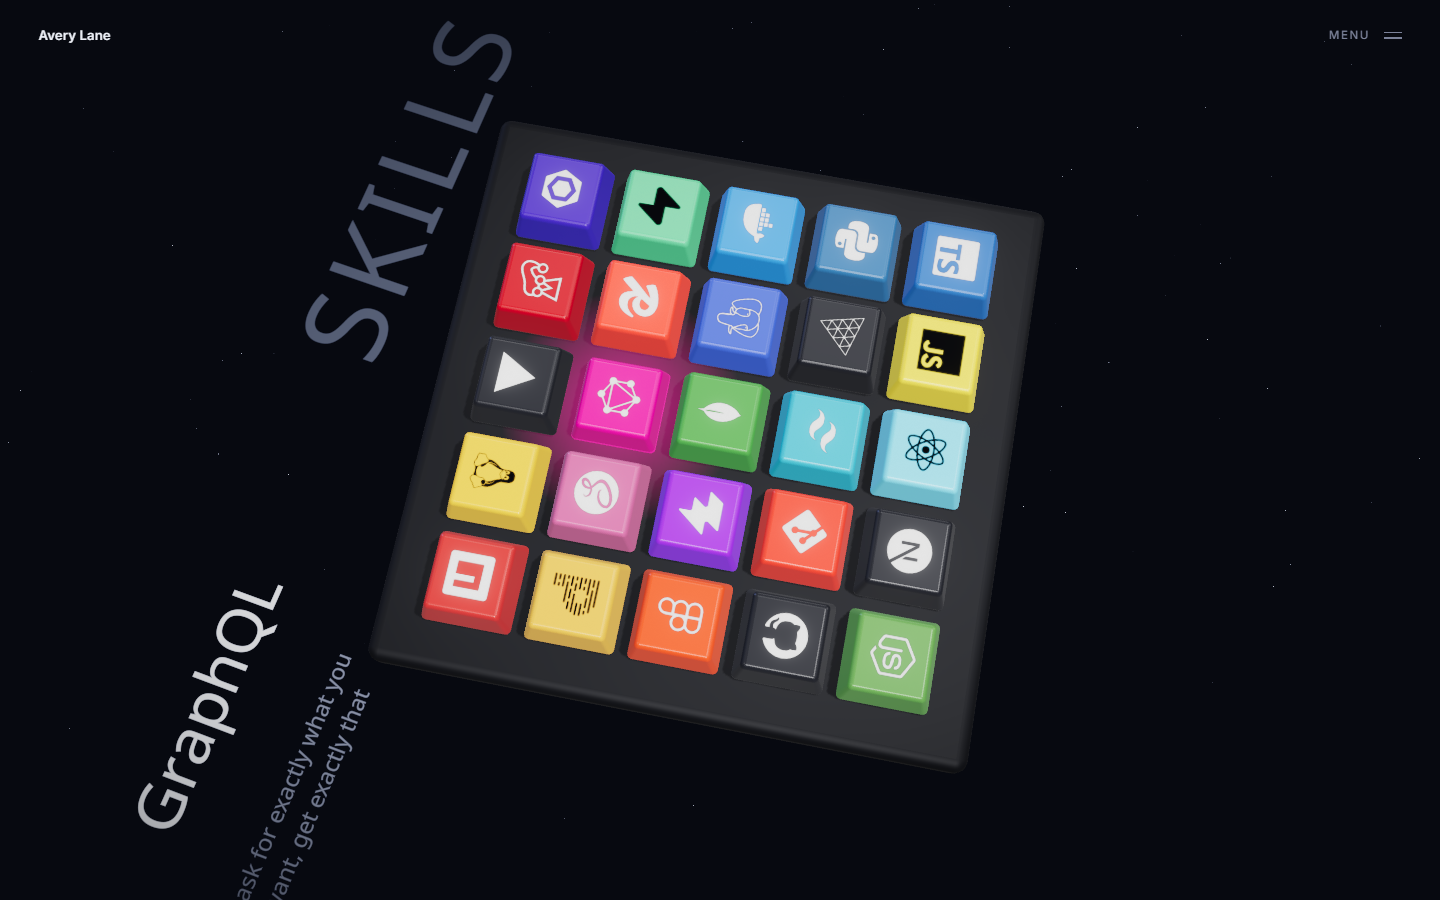
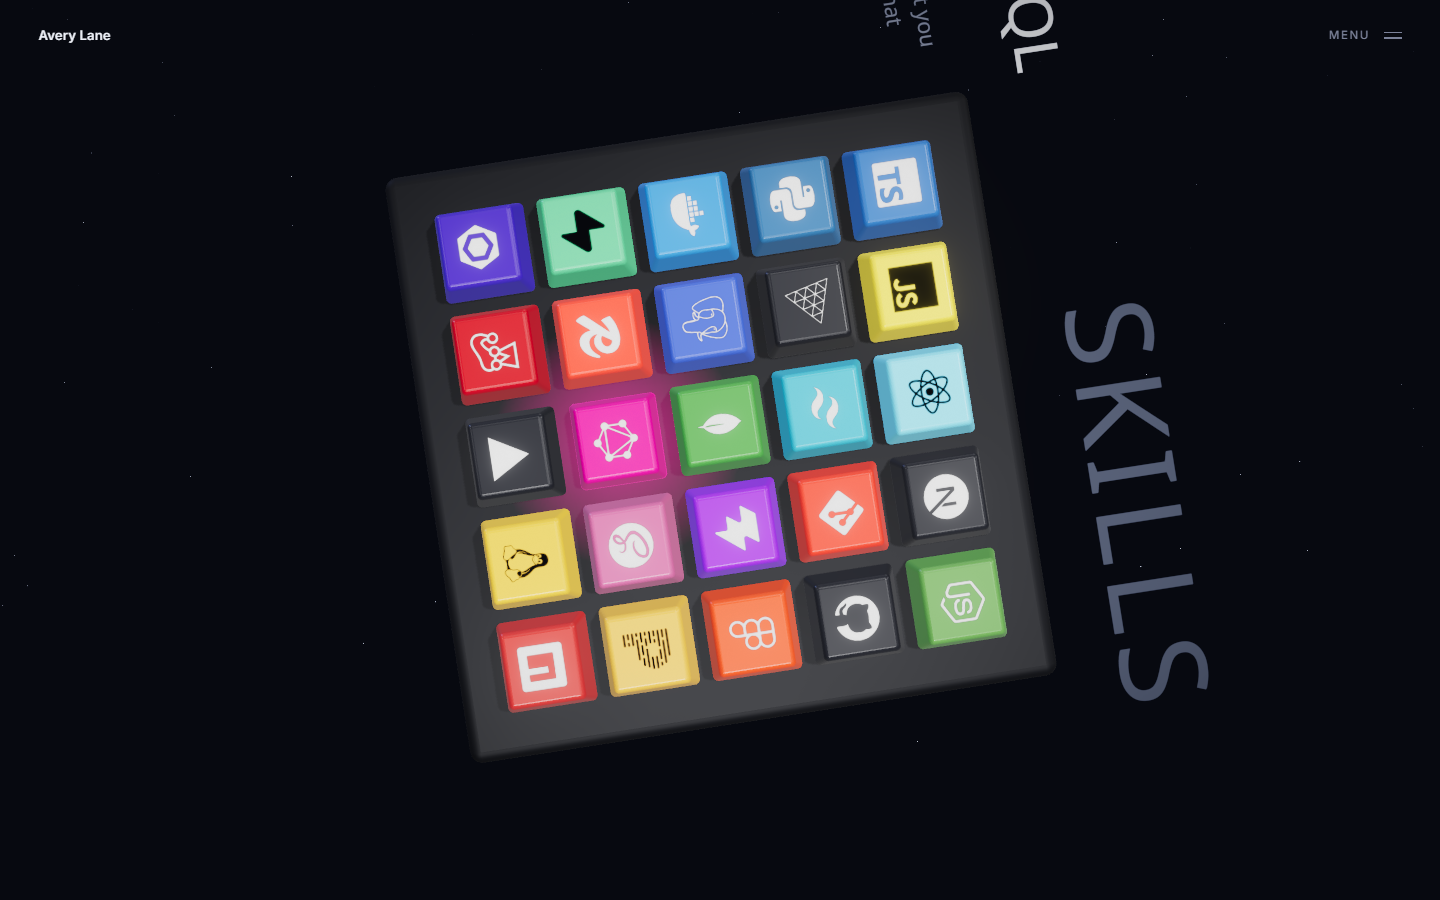
Fix skills pose legibility, stale selection, and yaw accumulation
The skills pose was angled far enough that the in-plane type read as a
diagonal. Since the text lies in the plane, the plane's angle is the
text's angle: yaw drops from 0.52 to 0.15 rad, and the board now carries
a 0.22 rad base pitch tipping it toward the camera. The camera sits about
43 degrees above the plane and the base adds another 13, which is most of
the difference between a caption you read and one you decipher. The drag
offset is clamped against what that base leaves rather than against zero.

Scrolling back to the hero left the pressed key selected, so the board
kept glowing under a selection that was no longer visible. Selection is
now cleared below 20% scroll progress.

Spinning the board several turns in one direction left the drag yaw at a
dozen radians, and scrolling up then unwound every one of them on screen.
Whenever the yaw leaves (-PI, PI] the target and its damped value are
shifted by the same whole turn -- visually a no-op, since the rotation
differs by a multiple of 2PI -- capping the worst case at half a turn.
Below 15% progress the yaw and pitch offsets also ease to zero, out of
sight, so scrolling down always arrives at the designed pose.

Verified: after four full spins the yaw reads 2.29 rather than ~-17, and
both offsets settle to exactly 0 once the section is left.

diff --git a/demo-keyboard/src/Scene.jsx b/demo-keyboard/src/Scene.jsx
@@ -20,22 +20,33 @@ const HERO = {
   scale: 1.0,
 };
 const SKILLS = {
-  camera: new THREE.Vector3(0, 10.6, 13.4),
+  camera: new THREE.Vector3(0, 11.5, 12.2),
   target: new THREE.Vector3(0, -0.4, 0),
   board: new THREE.Vector3(0, 0, 0),
   scale: 1.08,
 };
-const SKILLS_YAW = -0.52;
+// Enough yaw that it does not read as a flat screenshot, little enough that the in-plane
+// type still reads as a line rather than a diagonal.
+const SKILLS_YAW = -0.15;
+// Tipping the plane toward the camera is what buys back legibility: the camera sits about
+// 43 degrees above it, and this adds another 13 before any foreshortening is applied.
+const SKILLS_PITCH = 0.22;
 
 // Drag only takes over once the skills beat is most of the way in, so it never fights
 // the hero's idle tumble or the mouse parallax.
 const DRAG_FROM = 0.25;
 const DRAG_SPEED = 0.0055; // radians per pixel
 // Yaw is free — it is a turntable. Pitch is clamped: past these the board shows its
-// underside and the in-plane text edge-on, which just reads as broken.
+// underside and the in-plane text edge-on, which just reads as broken. These bound the
+// TOTAL pitch, base included.
 const PITCH_MIN = -1.05;
-const PITCH_MAX = 0.62;
+const PITCH_MAX = 0.78;
 const CLICK_SLOP = 6; // px of travel before a press counts as a drag rather than a click
+const TWO_PI = Math.PI * 2;
+
+// The drag offset sits on top of SKILLS_PITCH, so clamp it against what the base leaves.
+const clampPitch = (v) =>
+  THREE.MathUtils.clamp(v, PITCH_MIN - SKILLS_PITCH, PITCH_MAX - SKILLS_PITCH);
 
 /**
  * RoomEnvironment rather than an HDRI preset: no network fetch, no wait, and for glossy
@@ -149,6 +160,9 @@ export default function Scene({ scrollRef, selected, onSelect }) {
     velPitch: 0,
   });
   const view = useRef({ yaw: 0, pitch: 0 });
+  // Dev-only handle: `__drag.yaw` should never leave (-PI, PI], however many turns the
+  // board has been spun.
+  if (import.meta.env.DEV) window.__drag = drag.current;
   const boardYaw = useRef(0); // total yaw, so the in-plane text can stay readable
   // Set on release when the press travelled far enough to count as a drag; read by the
   // keycap click handler so rotating the board never also selects a key.
@@ -188,11 +202,7 @@ export default function Scene({ scrollRef, selected, onSelect }) {
       g.at = now;
 
       g.yaw += dx * DRAG_SPEED;
-      g.pitch = THREE.MathUtils.clamp(
-        g.pitch + dy * DRAG_SPEED,
-        PITCH_MIN,
-        PITCH_MAX,
-      );
+      g.pitch = clampPitch(g.pitch + dy * DRAG_SPEED);
       // Momentum in radians per second, so a throw is frame-rate independent.
       g.velYaw = (dx * DRAG_SPEED) / dt;
       g.velPitch = (dy * DRAG_SPEED) / dt;
@@ -233,16 +243,31 @@ export default function Scene({ scrollRef, selected, onSelect }) {
     const e = THREE.MathUtils.smoothstep(p, 0, 1);
 
     // The board idles with a slow tumble in the hero and settles as skills takes over.
-    spin.current += d * 0.11 * (1 - e);
+    spin.current = (spin.current + d * 0.11 * (1 - e)) % TWO_PI;
+
+    // Spinning the board several turns one way used to leave the drag yaw at a dozen
+    // radians, and scrolling back up then unwound every one of them on screen. Shifting
+    // the target and its damped value by the same whole turn is visually a no-op, and it
+    // caps the worst case at half a turn.
+    if (g.yaw > Math.PI || g.yaw < -Math.PI) {
+      const turns = Math.round(g.yaw / TWO_PI) * TWO_PI;
+      g.yaw -= turns;
+      view.current.yaw -= turns;
+    }
+
+    // Once the section is behind us, ease the rotation back to the designed pose. It
+    // happens where nothing is visible, so scrolling down again always starts square.
+    if (e < 0.15 && !g.active) {
+      g.yaw = THREE.MathUtils.damp(g.yaw, 0, 3, d);
+      g.pitch = THREE.MathUtils.damp(g.pitch, 0, 3, d);
+      g.velYaw = 0;
+      g.velPitch = 0;
+    }
 
     // Throw: after release the target keeps moving and the velocity decays out.
     if (!g.active) {
       g.yaw += g.velYaw * d;
-      g.pitch = THREE.MathUtils.clamp(
-        g.pitch + g.velPitch * d,
-        PITCH_MIN,
-        PITCH_MAX,
-      );
+      g.pitch = clampPitch(g.pitch + g.velPitch * d);
       const decay = Math.exp(-4 * d);
       g.velYaw *= decay;
       g.velPitch *= decay;
@@ -289,9 +314,9 @@ export default function Scene({ scrollRef, selected, onSelect }) {
     pitchGroup.current.scale.setScalar(
       THREE.MathUtils.lerp(HERO.scale, SKILLS.scale, e),
     );
-    // Scaling the offsets by `e` means scrolling back up unwinds the rotation rather
-    // than stranding the board at whatever angle it was left at.
-    pitchGroup.current.rotation.x = view.current.pitch * e;
+    // Scaling the offsets by `e` means scrolling back up returns the board to its pose
+    // rather than stranding it at whatever angle it was left at.
+    pitchGroup.current.rotation.x = (SKILLS_PITCH + view.current.pitch) * e;
     boardYaw.current = THREE.MathUtils.lerp(
       spin.current,
       SKILLS_YAW + view.current.yaw,

diff --git a/demo-keyboard/src/App.jsx b/demo-keyboard/src/App.jsx
@@ -32,8 +32,12 @@ export default function App() {
     })
     // Normalise to 0–1 once, in one place; the scene damps toward it.
     lenis.on('scroll', ({ progress }) => {
-      scrollRef.current = progress || 0
-      setScrolled(progress > 0.08)
+      const p = progress || 0
+      scrollRef.current = p
+      setScrolled(p > 0.08)
+      // Leaving the section clears the pressed key: otherwise the hero keeps glowing
+      // under a selection you can no longer see. Re-setting null is a no-op in React.
+      if (p < 0.2) setSelected(null)
     })
     return () => {
       cancelAnimationFrame(raf)

diff --git a/demo-keyboard/README.md b/demo-keyboard/README.md
@@ -51,14 +51,21 @@ you have to set `autoReset = false` and accumulate a frame to get a true number.
 **The 3D text is in the board's group**, not overlaid on the page. That is why it inherits the
 board's rotation and is occluded by the caps, which is what makes it read as part of the object.
 
+**The skills pose is chosen for legibility.** The type lies in the plane, so the plane's angle is
+the type's angle. Yaw is only 0.15 rad — enough that it does not read as a flat screenshot, little
+enough that the heading still reads as a line rather than a diagonal — and the board carries a
+0.22 rad base pitch that tips it toward the camera. The camera sits about 43° above the plane and
+that base adds another 13°, which is most of the difference between a caption you read and one you
+decipher.
+
 **Drag-to-rotate is two nested groups**, pitch on the outer and yaw on the inner. One group with
 an euler triple would gimbal and start rolling the board. Pointer deltas move a target, the
 rendered value damps toward it at lambda 11 so the board lags a few frames behind the cursor, and
 the release velocity is kept in radians per second so a throw decays the same at any frame rate.
-Yaw is free; pitch is clamped, because past about 35° up or 60° down you are looking at the
-underside of the tray and the in-plane text edge-on.
+Yaw is free; pitch is clamped — and since the drag offset now sits on top of a base pitch, it is
+clamped against what that base leaves rather than against zero.
 
-Three things that only matter once it moves:
+Five things that only matter once it moves:
 
 - **A rotate must not select a key.** Both end in a pointerup over some cap. The press records how
   far it travelled, and anything over 6px sets a flag the click handler checks and bails on. The
@@ -69,6 +76,14 @@ Three things that only matter once it moves:
   counter-rotates about the plane's own normal by the *nearest half turn* — so under 90° the
   designed skew is untouched, and past it the type swings around inside the plane rather than
   inverting. It is still in the plane, still occluded by the caps.
+- **Yaw must not accumulate.** Spinning the board a few turns one way left the drag yaw at a dozen
+  radians, and scrolling back up then unwound every one of them on screen. Whenever it leaves
+  (−π, π], the target and its damped value are shifted by the same whole turn — visually a no-op,
+  since the rotation differs by a multiple of 2π — which caps the worst case at half a turn.
+- **The pose resets out of sight.** Below 15% progress the yaw and pitch offsets ease to zero.
+  That happens where nothing is visible, so scrolling down always arrives at the designed pose
+  rather than wherever it was left. The selection is cleared on the same journey — otherwise the
+  hero keeps glowing under a pressed key you can no longer see.
 
 Drag is bound to mouse and pen only. On touch, a vertical swipe is how you scroll the page, and
 capturing it to rotate the board would trap the reader in the section.

diff --git a/README.md b/README.md
@@ -70,7 +70,8 @@ A two-beat portfolio rebuilt from a video reference. One 3D mechanical keyboard 
 both beats: scroll drives it from the hero into a SKILLS view, hovering lifts a cap, and clicking
 presses it down and reveals that skill's name plus a one-liner as 3D text lying in the board's own
 plane. In the skills beat the whole thing is one rigid plane you can grab and turn on both axes
-with the left mouse button — board, heading and caption together.
+with the left mouse button — board, heading and caption together — and it eases back to its pose
+when you scroll away.
 
 ![The skills beat: the board rotated large, a pressed cap, and its caption lying in the board's plane](demo-keyboard/docs/skills.png)
 
